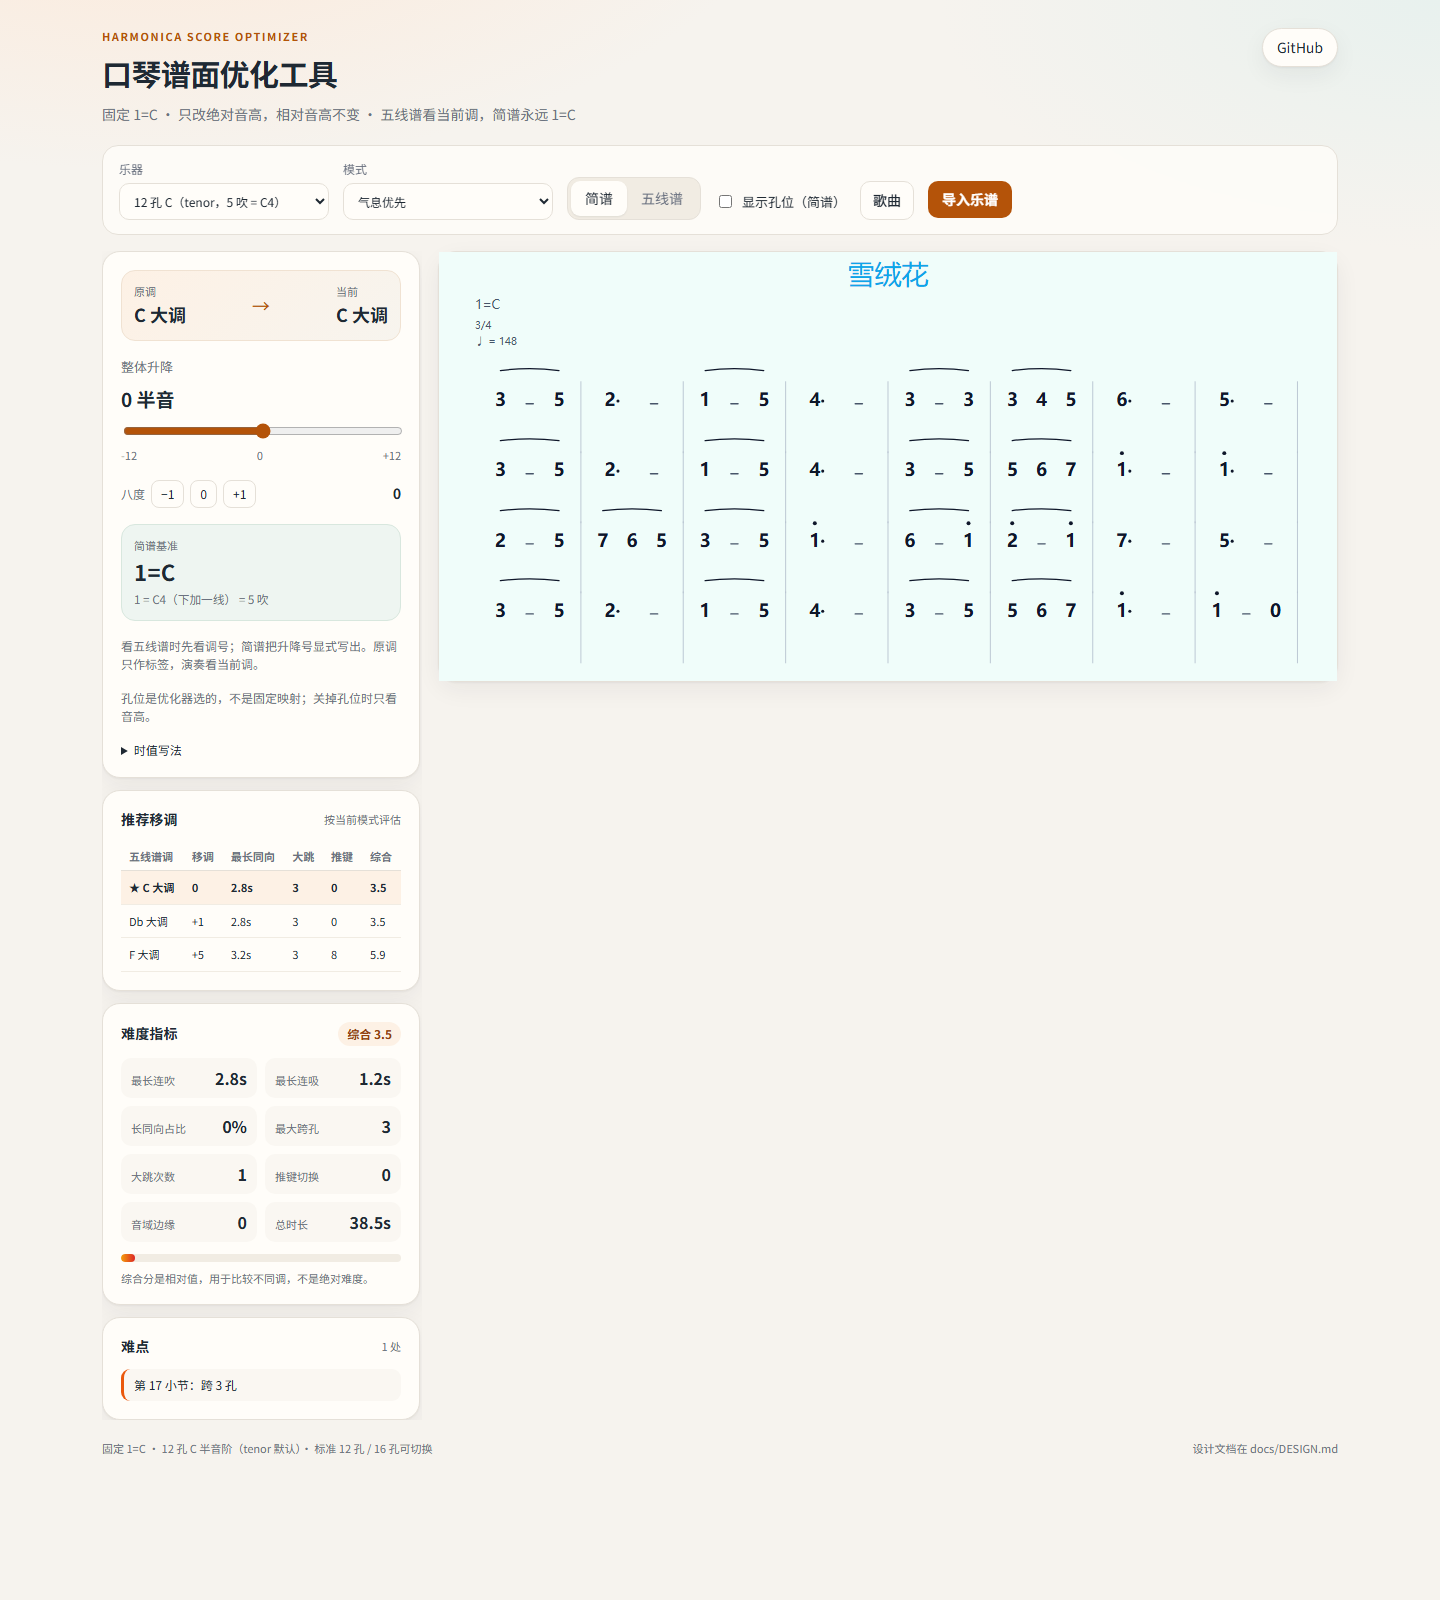
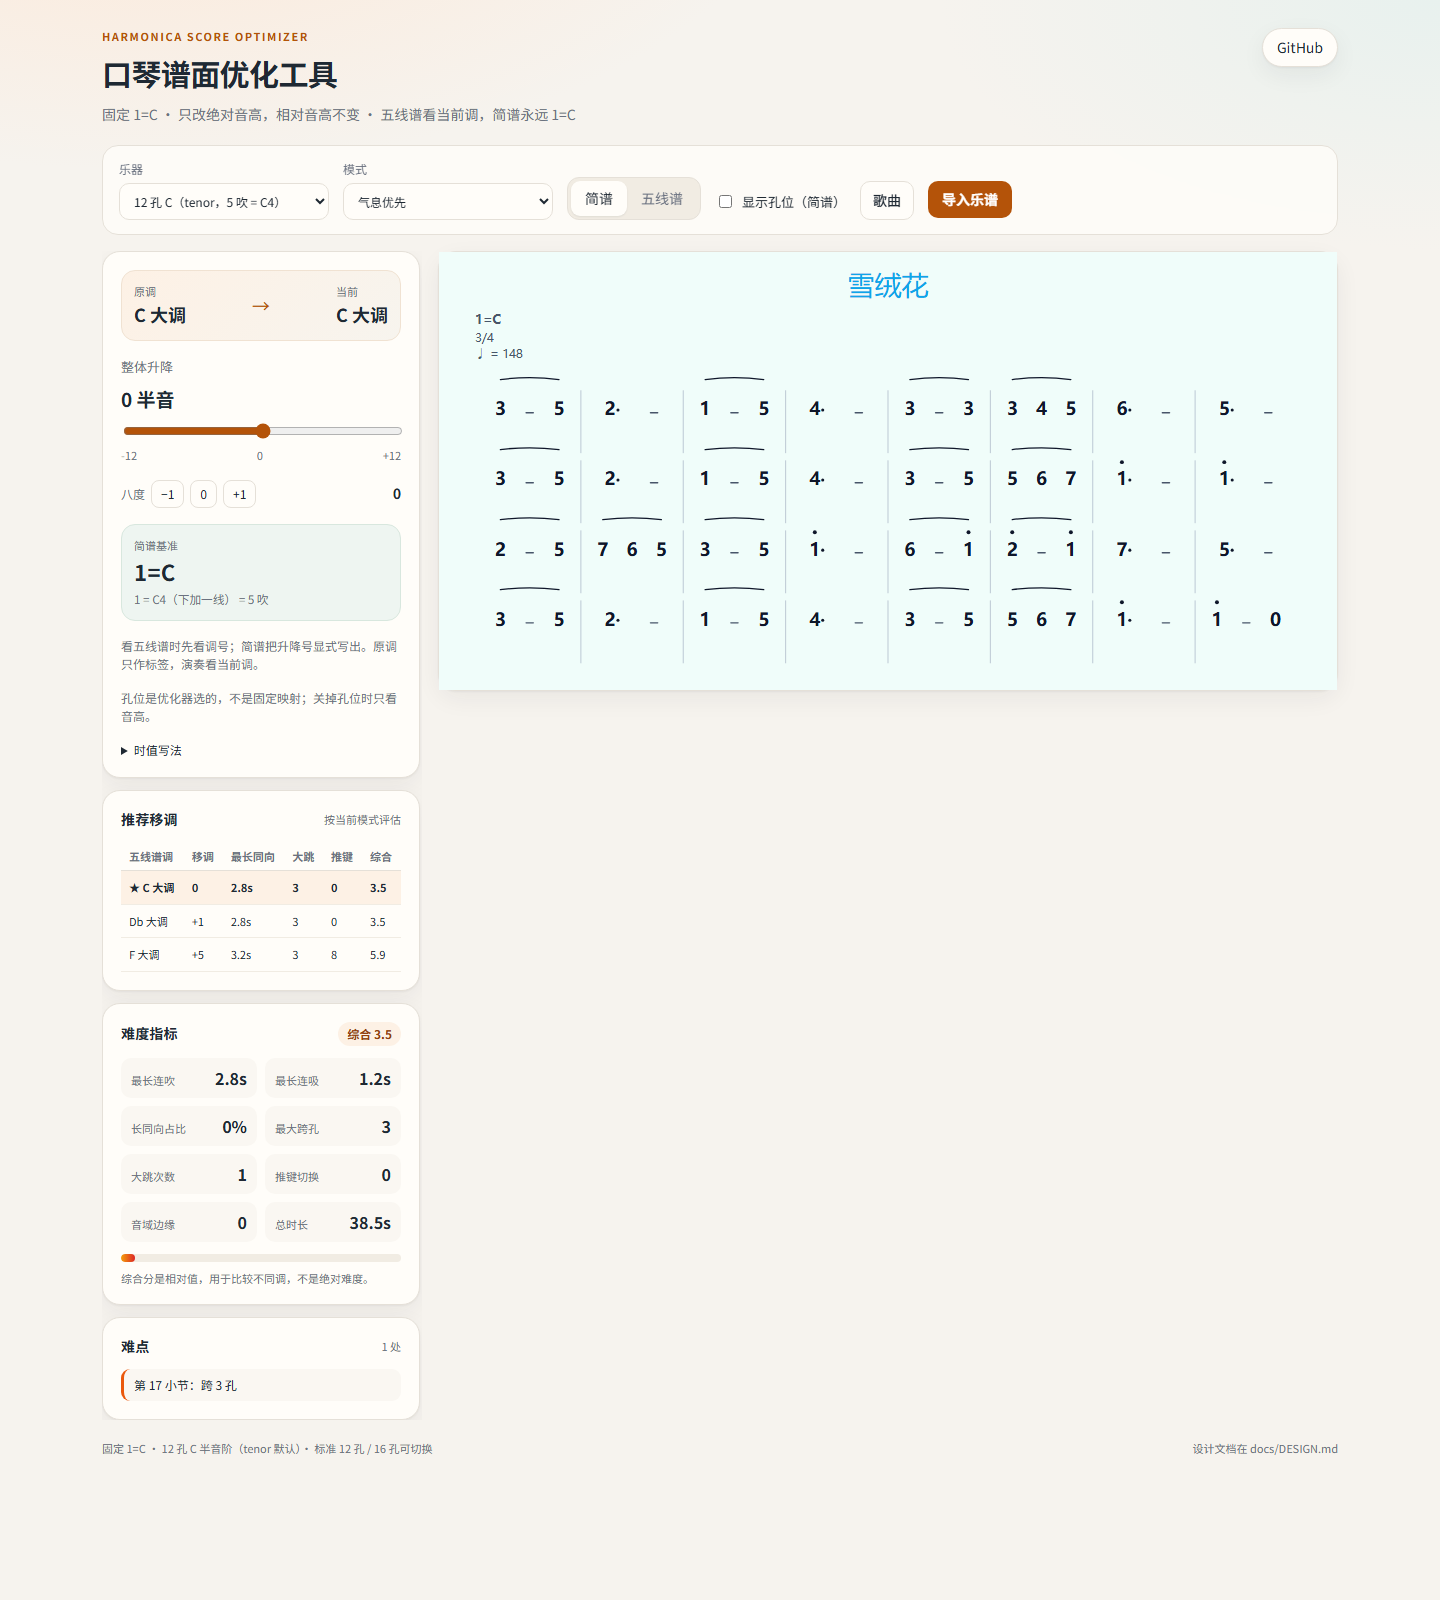
fix: qifengle sections, staff rests, line bars, header

diff --git a/src/components/JianpuView.tsx b/src/components/JianpuView.tsx
@@ -13,7 +13,7 @@ type Props = {
 
 const W = 1000
 const MARGIN = 44
-const HEADER_H = 150
+const HEADER_H = 160
 const MAX_TOKENS = 26
 const MAX_MEASURES = 8
 const MEASURE_PAD = 8
@@ -130,6 +130,7 @@ type LineLayout = {
   line: Measure[]
   measureW: number
   baseline: number
+  section: string
 }
 
 export function JianpuView({ score, transpose, sig, fingerings, showTab }: Props) {
@@ -137,13 +138,19 @@ export function JianpuView({ score, transpose, sig, fingerings, showTab }: Props
   const measureBeats = (beats * 4) / beatType
   const measures = buildMeasures(score.notes, measureBeats)
   const verseCount = score.notes.reduce((max, note) => Math.max(max, note.lyrics?.length ?? 0), 0)
+  const sectionFor = (measure: number) =>
+    score.sections?.find(section => measure >= section.startMeasure && measure <= section.endMeasure)?.label ?? ''
   const lines: Measure[][] = []
   let current: Measure[] = []
   let tokenCount = 0
   for (const measure of measures) {
+    const section = sectionFor(measure.measure)
+    const currentSection = current.length > 0 ? sectionFor(current[0].measure) : section
     if (
       current.length > 0 &&
-      (tokenCount + measure.tokens.length > MAX_TOKENS || current.length >= MAX_MEASURES)
+      (section !== currentSection ||
+        tokenCount + measure.tokens.length > MAX_TOKENS ||
+        current.length >= MAX_MEASURES)
     ) {
       lines.push(current)
       current = []
@@ -162,6 +169,7 @@ export function JianpuView({ score, transpose, sig, fingerings, showTab }: Props
       line,
       measureW: (W - MARGIN * 2) / Math.max(1, count),
       baseline: HEADER_H + lineIndex * lineHeight + NOTE_BASE,
+      section: sectionFor(line[0].measure),
     }
   })
   const height = HEADER_H + Math.max(1, lines.length) * lineHeight + 16
@@ -203,39 +211,44 @@ export function JianpuView({ score, transpose, sig, fingerings, showTab }: Props
         aria-label="简谱"
       >
         <rect x={0} y={0} width={W} height={height} fill="#f0fdfa" />
-        <text x={W / 2} y={36} textAnchor="middle" fontSize={titleSize} fontWeight={500} fill="#0ea5e9">
+        <text x={W / 2} y={48} textAnchor="middle" fontSize={titleSize} fontWeight={500} fill="#0ea5e9">
           {title}
         </text>
         {score.composer && (
-          <text x={960} y={62} textAnchor="end" fontSize={11.5} fill="#475569">
+          <text x={960} y={80} textAnchor="end" fontSize={12} fill="#475569">
             {score.composer}
           </text>
         )}
         {score.lyricist && (
-          <text x={960} y={78} textAnchor="end" fontSize={11.5} fill="#475569">
+          <text x={960} y={96} textAnchor="end" fontSize={12} fill="#475569">
             {score.lyricist}
           </text>
         )}
-        <text x={40} y={64} fontSize={14} fill="#475569">
+        <text x={40} y={80} fontSize={14} fontWeight={600} fill="#475569">
           1=C
         </text>
-        <text x={40} y={86} fontSize={11.5} fill="#475569">
+        <text x={40} y={100} fontSize={13} fill="#475569">
           {beats}/{beatType}
         </text>
-        <text x={40} y={104} fontSize={11.5} fill="#475569">
+        <text x={40} y={118} fontSize={13} fill="#475569">
           ♩ = {score.tempo}
         </text>
         {transpose !== 0 && (
-          <text x={40} y={120} fontSize={10} fill="#475569">
+          <text x={40} y={134} fontSize={10} fill="#475569">
             原调 {originalLabel} · 当前 {sig.label}
           </text>
         )}
 
         {layouts.map((layout, lineIndex) => {
-          const barBottom =
-            layout.baseline + LYRIC_OFFSET + Math.max(0, verseCount - 1) * LYRIC_GAP + 12
+          const barTop = layout.baseline - 28
+          const barBottom = layout.baseline + lineHeight - 36
           return (
             <g key={lineIndex}>
+              {layout.section && (
+                <text x={MARGIN} y={layout.baseline - 44} fontSize={12} fontWeight={600} fill="#0e7490">
+                  {layout.section}
+                </text>
+              )}
               {layout.line.map((measure, measureIndex) => {
                 const measureX = MARGIN + measureIndex * layout.measureW
                 const step = stepOf(measure, layout.measureW)
@@ -266,7 +279,7 @@ export function JianpuView({ score, transpose, sig, fingerings, showTab }: Props
                     {measureIndex > 0 && (
                       <line
                         x1={measureX}
-                        y1={layout.baseline - 28}
+                        y1={barTop}
                         x2={measureX}
                         y2={barBottom}
                         stroke="#b6c2cf"
@@ -326,7 +339,7 @@ export function JianpuView({ score, transpose, sig, fingerings, showTab }: Props
                           ))}
                           {jp.accidental && (
                             <text
-                              x={x - NOTE_FONT * 0.55}
+                              x={x - NOTE_FONT * 0.45}
                               y={layout.baseline - NOTE_FONT * 0.55}
                               textAnchor="end"
                               fontSize={NOTE_FONT * 0.6}
@@ -415,16 +428,7 @@ export function JianpuView({ score, transpose, sig, fingerings, showTab }: Props
                         )
                       })
                     })}
-                    {measureIndex === layout.line.length - 1 && (
-                      <line
-                        x1={measureX + layout.measureW}
-                        y1={layout.baseline - 28}
-                        x2={measureX + layout.measureW}
-                        y2={barBottom}
-                        stroke="#b6c2cf"
-                        strokeWidth={1}
-                      />
-                    )}
+
                   </g>
                 )
               })}

diff --git a/src/components/StaffView.tsx b/src/components/StaffView.tsx
@@ -2,7 +2,7 @@ import { useEffect, useRef, useState } from 'react'
 import { Accidental, Barline, Formatter, Renderer, Stave, StaveNote, Voice } from 'vexflow'
 import type { KeySignature } from '../core/keys'
 import { staffNote } from '../core/keys'
-import type { NoteEvent } from '../core/types'
+import type { NoteEvent, Section } from '../core/types'
 
 type Props = {
   notes: NoteEvent[]
@@ -10,6 +10,7 @@ type Props = {
   sig: KeySignature
   timeSignature: [number, number]
   hardSpotIds: Set<string>
+  sections?: Section[]
 }
 
 const MEASURES_PER_SYSTEM = 4
@@ -23,7 +24,7 @@ function durationToVex(duration: number): { duration: string; dots: number } {
   return { duration: '16', dots: 0 }
 }
 
-export function StaffView({ notes, transpose, sig, timeSignature, hardSpotIds }: Props) {
+export function StaffView({ notes, transpose, sig, timeSignature, hardSpotIds, sections }: Props) {
   const containerRef = useRef<HTMLDivElement | null>(null)
   const [error, setError] = useState('')
 
@@ -90,6 +91,12 @@ export function StaffView({ notes, transpose, sig, timeSignature, hardSpotIds }:
         stave.setEndBarType(measure === maxMeasure ? Barline.type.END : Barline.type.SINGLE)
         stave.setMeasure(measure)
         stave.setContext(context).draw()
+        const section = sections?.find(item => item.startMeasure === measure)
+        if (section) {
+          context.setFont('sans-serif', 11, 600)
+          context.fillStyle = '#0e7490'
+          context.fillText(section.label, 10, stave.getYForLine(0) - 10)
+        }
 
         const measureNotes = measures.get(measure) ?? []
         if (measureNotes.length === 0) continue
@@ -113,7 +120,19 @@ export function StaffView({ notes, transpose, sig, timeSignature, hardSpotIds }:
         }
 
         const totalBeats = measureNotes.reduce((sum, note) => sum + note.duration, 0)
-        const voice = new Voice({ numBeats: Math.max(0.5, totalBeats), beatValue: 4 })
+        const meter = Math.max(1, Math.ceil(totalBeats - 1e-6))
+        const remaining = meter - totalBeats
+        if (remaining > 1e-3) {
+          const restDur = durationToVex(remaining)
+          staveNotes.push(
+            new StaveNote({
+              keys: ['b/4'],
+              duration: `${restDur.duration}${restDur.dots > 0 ? 'd' : ''}r`,
+              clef: 'treble',
+            }),
+          )
+        }
+        const voice = new Voice({ numBeats: meter, beatValue: 4 })
         voice.addTickables(staveNotes)
         const available = measureWidth - 18
         new Formatter().joinVoices([voice]).format([voice], available)
@@ -136,7 +155,7 @@ export function StaffView({ notes, transpose, sig, timeSignature, hardSpotIds }:
       window.removeEventListener('resize', onResize)
       window.clearTimeout(timer)
     }
-  }, [notes, transpose, sig, timeSignature, hardSpotIds])
+  }, [notes, transpose, sig, timeSignature, hardSpotIds, sections])
 
   return (
     <div className="staff">

diff --git a/src/App.tsx b/src/App.tsx
@@ -111,7 +111,7 @@ export default function App() {
           setScore(data)
           setCurrentSongId('local-qifengle-score')
           setTransposition(0)
-          setView('jianpu')
+          setView(params.get('view') === 'staff' ? 'staff' : 'jianpu')
         }
       })
       .catch(() => {})
@@ -752,6 +752,7 @@ export default function App() {
                     </div>
                   </div>
                   <StaffView
+                    sections={score.sections}
                     notes={score.notes}
                     transpose={effectiveTransposition}
                     sig={currentSig}

diff --git a/src/core/types.ts b/src/core/types.ts
@@ -28,6 +28,12 @@ export type Slur = {
   to: string
 }
 
+export type Section = {
+  label: string
+  startMeasure: number
+  endMeasure: number
+}
+
 export type Score = {
   title: string
   tempo: number
@@ -37,6 +43,7 @@ export type Score = {
   composer?: string
   lyricist?: string
   slurs?: Slur[]
+  sections?: Section[]
 }
 
 export type HardSpotType = 'long-run' | 'jump' | 'edge'

diff --git a/docs/DESIGN.md b/docs/DESIGN.md
@@ -608,6 +608,8 @@ GUI 里要能看到优化的“过程”，不只是结果：
 - 雪绒花：来源 [人人鋼琴網](https://tw.everyonepiano.com/Music-1288.html)；站点完整五线谱预览只有 200×260 缩略图，PDF 500 / 需登录；按用户提供的正确截图逐音重录 `public/songs/edelweiss.jianpu.txt`（gitignore），3/4、1=C、♩=148，32 小节；带高八度点、连音线、结尾休止；不附歌词。
 - 图片 OMR：仅印刷体五线谱；实测五线谱截图 200，简谱 HTML 截图 502；简谱图片 OCR 未做。
 - 雪绒花：已按用户提供的正确简谱重录；截图无歌词，本曲不显示歌词。
+- 起风了：主歌 / 副歌 / 主歌 2 / 副歌 2 分段；段间强制换行；五线谱同步段名并补休止，修复 `BadArgument / IncompleteVoice`。
+- 简谱行间：不画行首 / 行末小节线；标题 30；左上信息统一；升降号 `♯ / ♭` 放数字左上。
 - 反复 / 弱起（未完成）：反复记号还没有展开，MusicXML 的 repeat / ending / D.C. / D.S. 会被忽略；partial first measure / MusicXML 弱起未做。雪绒花当前版本从 `3 - 5` 开始。
 
 ## 9. 平台与技术
@@ -777,7 +779,8 @@ tests/
 | 18 | 歌曲管理 | 内置 + localStorage 保存/删除；起风了 / 雪绒花本地 JSON；独立抽屉 |
 | 19 | 导入 / 版式 | 曲谱导入三入口 + 拖拽；五线谱首小节按修饰符实测宽度；全局字号 14 基准 |
 | 20 | 起风了 / OMR | 起风了解析为可优化 JSON（220 notes / 29 measures，本地）；图片 OMR 仅五线谱（简谱截图 502） |
-| 21 | 布局 / 雪绒花 | 左栏推荐/指标/难点；歌曲抽屉；±1 八度 + 不自动移；简谱按拍下划线、小节等宽、最后一行不拉伸；雪绒花按截图重录 |
+| 21 | 布局 / 雪绒花 | 左栏推荐/指标/难点；歌曲抽屉；±1 八度 + 不自动移；简谱按拍下划线、小节等宽、最后一行不拉伸、行间不连小节线；标题 30；雪绒花按截图重录 |
+| 23 | 分段 / 五线谱 | 起风了主歌/副歌/主歌2/副歌2；段间换行与段名；五线谱补休止修复渲染中断 |
 | 22 | 反复 / 弱起 | 未完成：repeat / ending / D.C. / D.S. 尚未展开；MusicXML partial measure 未保留 |
 
 ---

diff --git a/README.md b/README.md
@@ -24,6 +24,10 @@
 - 简谱下划线**按拍分组**，拍与拍之间留缝；小节等宽，行内填满，小节数可变，字间距可变；歌词 15。
 - 页式简谱：标题 / 调号 / 拍号 / 速度 / 作曲 / 作词 / 歌词 / 连音线；按音符密度自动换行（约 26 个音符/行）；标题 24、音符 20、歌词 15；升降号琥珀色加粗，高/低八度点不被连音线遮挡。
 - 最后一行不拉伸，沿用上一行的小节宽；休止符 `0` 与音符同字体 / 字重 / 颜色。
+- 行与行之间不再画行首 / 行末小节线，避免不同行的小节线在视觉上连成一条。
+- 起风了按 `主歌 / 副歌 / 主歌 2 / 副歌 2` 分段，段间强制换行并标段名；五线谱同步分段。
+- 起风了五线谱：小节按整数拍补休止，修复 `BadArgument / IncompleteVoice` 的渲染中断。
+- 曲名 30；左上 `1=C / 拍号 / 速度` 统一字号；升降号用真正的 `♯ / ♭`，位置在数字左上。
 - 导入：简谱文本（可填歌词 / 曲名 / 作曲 / 作词）、MusicXML（自动读 `<lyric>` / `<slur>`）、五线谱图片 / PDF（本地 OMR）；支持拖拽。
 - 歌曲管理：内置小星星 / 时值示例；起风了 / 雪绒花本地 JSON；导入结果可保存到 localStorage，可删除。
 
@@ -45,7 +49,7 @@
 
 - 内置：小星星、时值示例。
 - 「保存当前乐谱」把当前简谱 / MusicXML / 图片识别结果存到 localStorage；刷新后还在，可删除。
-- 起风了（可优化）：本地 `public/songs/qifengle.json`（gitignore），**220 个音符 / 29 小节 / 两段歌词**；可移调 / 优化。
+- 起风了（可优化）：本地 `public/songs/qifengle.json`（gitignore），**220 个音符 / 29 小节 / 两段歌词**；按主歌 1-8、副歌 9-16、主歌 2 17-24、副歌 2 25-29 分段；可移调 / 优化。
 - 起风了 JSON 与雪绒花本地文件不随仓库发布。
 
 ![起风了（可优化）](docs/qifengle.png)
